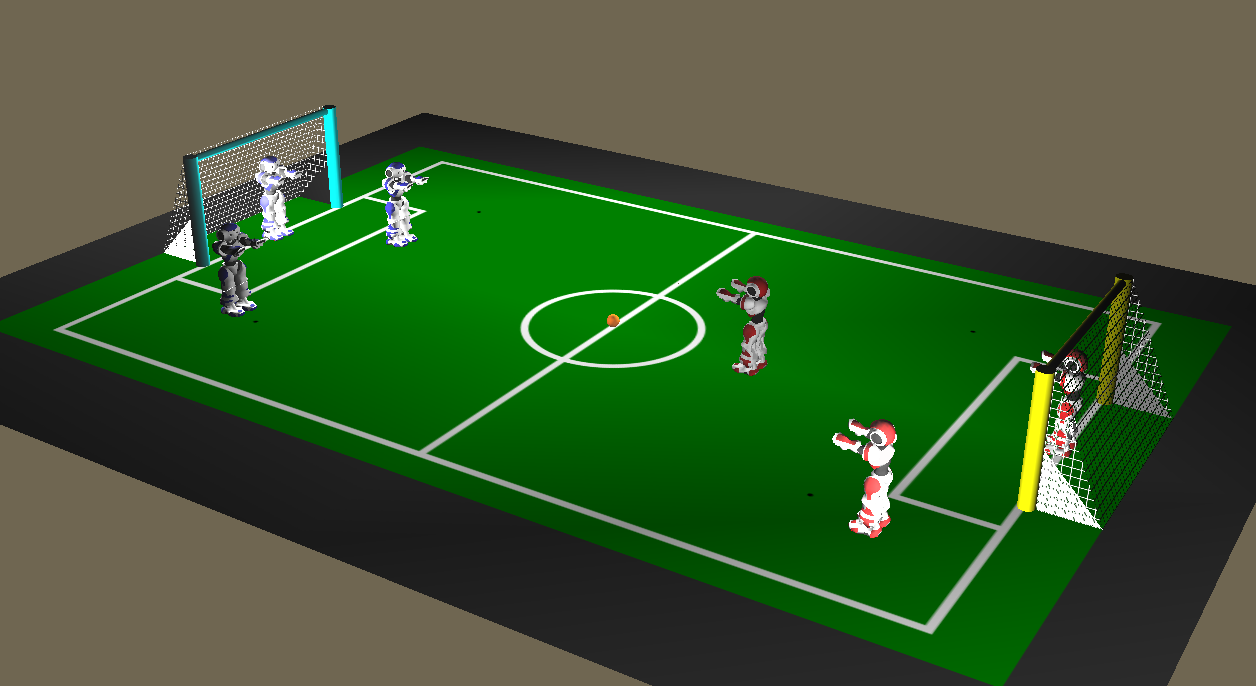
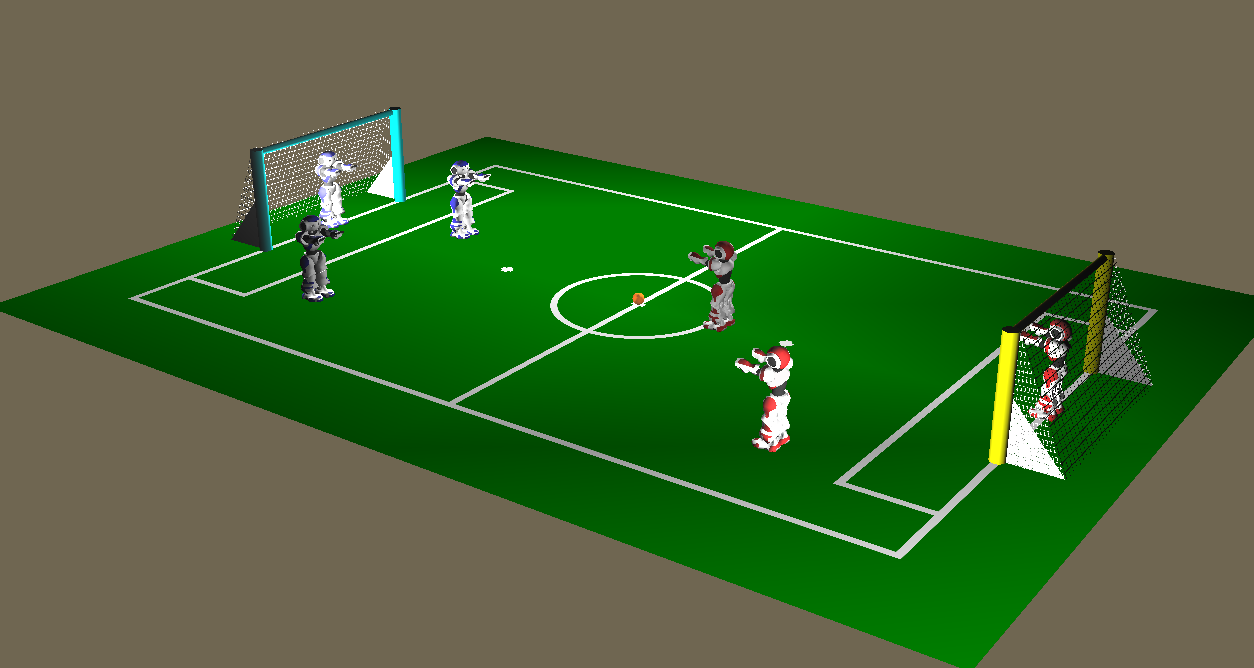
manual setup for 3vs3 figure is regenerated for 2009 field

diff --git a/SPL-Rules.tex b/SPL-Rules.tex
@@ -151,7 +151,7 @@ color-coded:
 \end{figure}
 
 \begin{figure}[t]
-\centerline{\includegraphics[width=\columnwidth]{figs/Nao2008Field-View.png}}
+\centerline{\includegraphics[width=\columnwidth]{figs/Nao2009Field-View.png}}
 \caption{Field colors and layout.}
 \label{fig:field_color}
 \end{figure}
